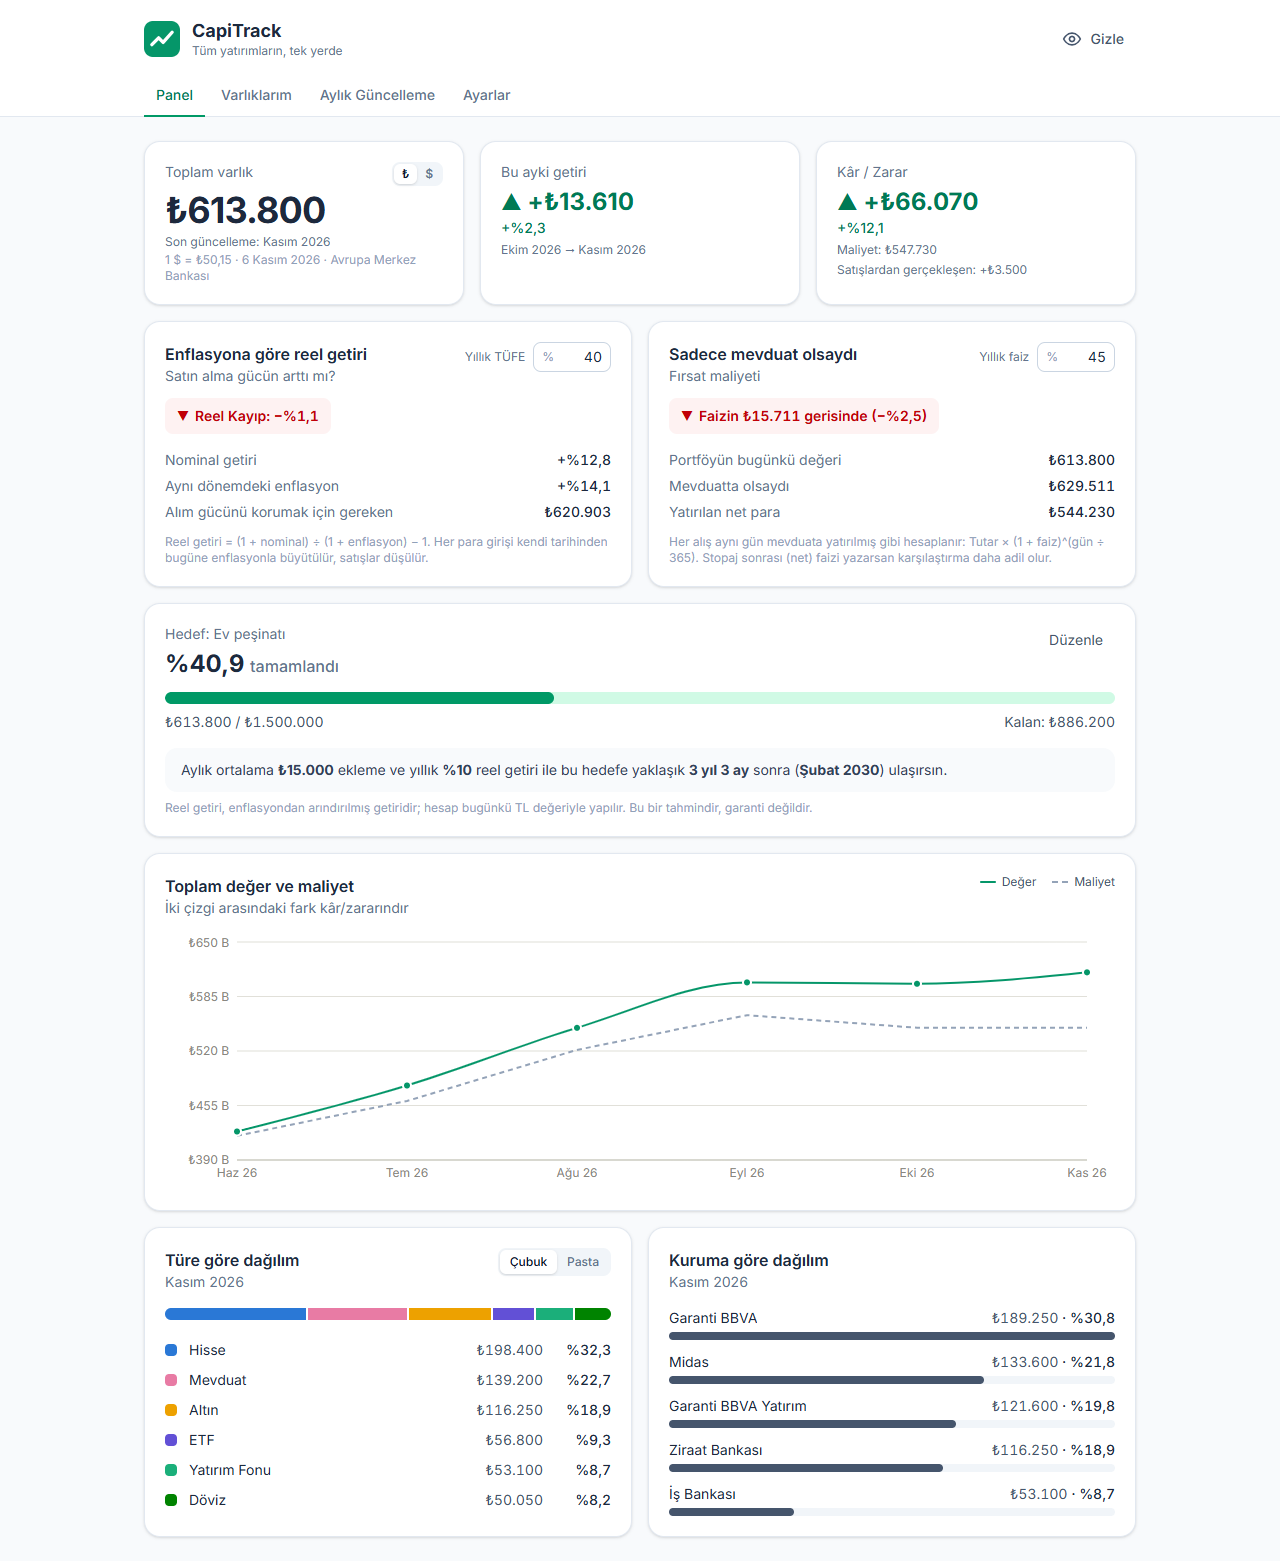
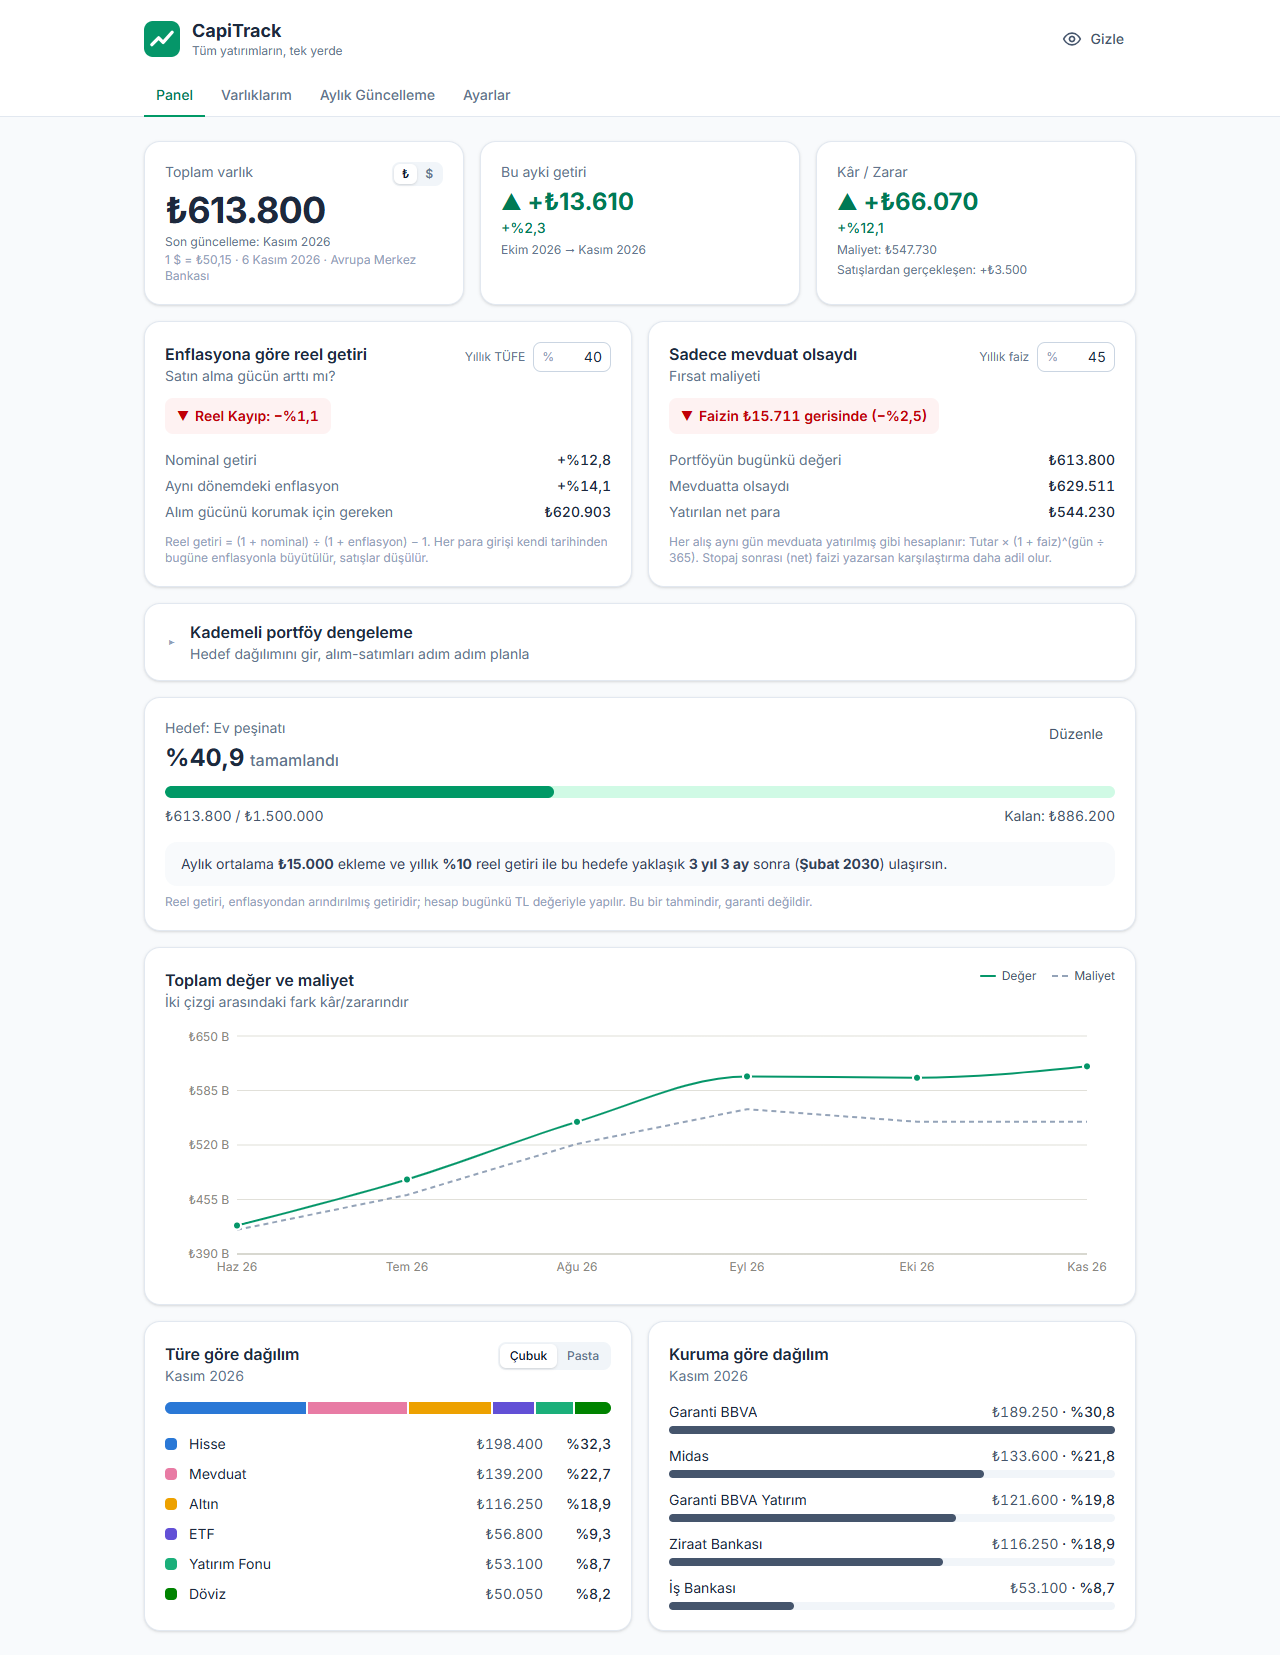
README ve ekran görüntülerini kademeli dengeleme ile güncelle

diff --git a/README.md b/README.md
@@ -18,6 +18,13 @@
 </details>
 
 <details>
+<summary>Kademeli portföy dengeleme planı</summary>
+
+![CapiTrack dengeleme planı](docs/dengeleme.png)
+
+</details>
+
+<details>
 <summary>Telefon görünümü</summary>
 
 <img src="docs/mobil.png" alt="CapiTrack telefon görünümü" width="320" />
@@ -32,6 +39,12 @@
 - **Çubuk / Pasta görünümü:** türe göre dağılım, bölümlü çubuk veya halka (pasta) grafik olarak gösterilebilir. Pastada bir dilimin ya da listedeki bir türün üzerine gelince halkanın ortasında o türün tutarı ve payı görünür.
 - **TL / Dolar:** toplam varlığa tıklayınca TL ile dolar arasında geçiş yapılır. Kur, ücretsiz bir servisten (Avrupa Merkez Bankası referans kuru) alınır ve 6 saat önbellekte tutulur; internet yoksa en son alınan kur kullanılır.
 - **Gizlilik modu:** üst menüdeki göz ikonu, kafe veya kütüphane gibi ortak alanlarda tüm tutarları tek tıkla `₺***,**` olarak gizler. Değer giriş kutuları bulanıklaşır, kutuya tıklayınca netleşir. Tercih hatırlanır.
+- **Kademeli portföy dengeleme:** Panel'de açılır bir karttır. Kullanıcı türler (Altın, Hisse…) ya da tek tek varlıklar (THYAO, PPF…) için hedef yüzdeler girer.
+  - Form bugünkü paylarla dolu gelir; listeye henüz sahip olunmayan bir varlık da eklenebilir.
+  - Toplam %100 değilse kırmızı uyarı çıkar ve *Hesapla* pasif kalır.
+  - Adım sayısı (2, 3, 4, 6, 12) ve sıklık (haftalık / aylık) seçilir.
+  - Sonuçta *Satılacaklar* ve *Alınacaklar* özetlenir, tarihli bir yol haritası çıkar: "Adım 1 (1. Hafta): ₺12.400 Altın al (~2,7 gr)". Birim fiyatı bilinen varlıklarda yaklaşık adet/gram karşılığı da yazar.
+  - Her adım uygulandıkça işaretlenir; plan ve ilerleme tarayıcıda saklanır.
 - **Hedef:** bir birikim hedefi (ör. ev peşinatı) belirlenir; portföyün hedefe oranı ilerleme çubuğuyla gösterilir. Aylık ekleme ve beklenen yıllık reel getiriyle, bileşik getiri hesabı yapılarak hedefe kaç ay sonra ulaşılacağı tahmin edilir.
 - **Varlıklarım:** varlık ekleme, düzenleme ve silme. Her varlığın türü (Altın, Hisse, ETF, Yatırım Fonu, Döviz, Mevduat, Kripto, Diğer), kurumu ve notu tutulur. Varlık eklenirken ilk alış da aynı formda girilebilir.
 - **Türe göre gruplama:** aynı türden birden fazla varlık varsa (ör. THYAO, BIMAS, ASELS → *Hisse*) bunlar tek bir başlık altında, listenin en üstünde gösterilir. Grup başlığında toplam değer ve grubun kâr/zarar yüzdesi yazar; her varlığın kendi kâr/zararı da satırında görünür. Gruplar açılıp kapatılabilir ve bu tercih hatırlanır. Türünde tek olan varlıklar gruplanmaz; altta, adlarının yanında renkli tür etiketiyle listelenir. Aynı türden ikinci bir varlık eklenince (ör. gram altının yanına altın sertifikası) o tür kendiliğinden gruba dönüşür. Gruplama hem *Varlıklarım* hem *Aylık Güncelleme* ekranında vardır.
@@ -97,6 +110,7 @@ src/
 ├── components/
 │   ├── TotalTile.jsx       Toplam varlık kartı (TL / Dolar geçişi)
 │   ├── BenchmarkCards.jsx  Reel getiri ve "sadece mevduat olsaydı" kartları
+│   ├── RebalancePlanner.jsx Kademeli portföy dengeleme: hedef formu ve adım adım plan
 │   ├── GoalCard.jsx        Hedef kartı ve hedef formu
 │   ├── TypeDistribution.jsx Türe göre dağılım (çubuk / pasta)
 │   ├── AssetGroup.jsx      Açılıp kapanan tür grubu (toplam değer ve kâr/zarar)
@@ -114,6 +128,7 @@ src/
     ├── trade.js            Alış / satış formunun okunması ve kontrolü
     ├── goal.js             Bileşik getiri ve hedefe ulaşma süresi hesabı
     ├── benchmark.js        Para akışlarının enflasyon / mevduat faiziyle büyütülmesi, Fisher denklemi
+    ├── rebalance.js        Hedef yüzdelere göre alım-satım tutarları, adımlara bölme, adım tarihleri
     ├── fx.js               Dolar/TL kurunun alınması ve önbelleklenmesi
     ├── exportExcel.js      Excel dosyasının oluşturulması
     ├── prefs.js            Tercihlerin hatırlanması (gizlilik, para birimi, görünüm, enflasyon ve faiz oranı)
@@ -151,7 +166,7 @@ Tüm veri tarayıcıda `capitrack:data` anahtarı altında tek bir JSON nesnesi 
 
 Miktar, maliyet ve değer veride saklanmaz; her açılışta işlemlerden ve fiyatlardan yeniden hesaplanır. Böylece bir işlem silindiğinde ya da düzeltildiğinde tüm geçmiş kendiliğinden doğru kalır.
 
-Gizlilik modu, para birimi, grafik görünümü, kapalı gruplar, enflasyon ve mevduat faizi oranı gibi tercihler portföy verisinden ayrı anahtarlarda (`capitrack:privacy` vb.) tutulur ve yedeğe dahil edilmez.
+Gizlilik modu, para birimi, grafik görünümü, kapalı gruplar, enflasyon ve mevduat faizi oranı, dengeleme planı ve işaretlenen adımlar gibi tercihler portföy verisinden ayrı anahtarlarda (`capitrack:privacy` vb.) tutulur ve yedeğe dahil edilmez.
 
 > **Sürüm geçişi:** İlk sürüm (`version: 1`) her ay için sadece toplam değer tutuyordu; bu bilgiden adet ve maliyet çıkarılamadığı için eski veri yeni modele çevrilmez. Uygulama eski veriyi `capitrack:data:v1-yedek` anahtarına yedekleyip boş başlar.
 
@@ -192,6 +207,20 @@ Büyütülmüş tutar = Σ Tutar · (1 + oran)^(gün / 365)
 
 Girilen faiz yıllık bileşik oran olarak kabul edilir. Bankaların ilan ettiği oran genelde basit faizdir ve stopaj kesilir; daha adil bir karşılaştırma için net oran yazılmalıdır.
 
+### Kademeli dengeleme hesabı
+
+```
+Hedef = Toplam portföy × Hedef yüzde / 100
+Delta = Hedef − Bugünkü değer          (Delta < 0 → satılacak, Delta > 0 → alınacak)
+Adım  = |Delta| / N                    (her adımda aynı tutar)
+```
+
+- Hedef yüzdeler toplamı %100 olduğu için satılanların toplamı alınanlarınkine eşittir; plan dışarıdan para gerektirmez. Her adımda önce satışlar, sonra alışlar yazılır.
+- Form bugünkü paylarla doldurulurken paylar %0,1'e yuvarlanır. Toplamın tam %100 olması için yuvarlama artığı, küsuratı en büyük olanlara dağıtılır (en büyük kalan yöntemi).
+- Portföyün binde birinden küçük farklar işlem sayılmaz. Bu, dokunulmayan satırlardaki yuvarlama gürültüsünü (ör. "₺40 ETF sat") eler. Elenen farklar alış ve satış toplamını birkaç yüz lira saptırabileceği için büyük taraf küçük tarafa eşitlenir; plan her zaman nakit-nötr kalır.
+- Adet/gram karşılığı = adım tutarı ÷ son birim fiyat. Türe göre kırılımda yalnızca türde tek varlık varsa gösterilir (birden fazla hissenin ortak bir fiyatı yoktur).
+- Plan, oluşturulduğu günün değerleriyle sabittir. Fiyatlar değiştikçe hedefe tam oturmayabilir; plan istenirse yeniden hesaplanır.
+
 Veri sadece kullanıldığı tarayıcıda durur. Başka bir cihaza taşımak veya kaybetmemek için **Ayarlar → Yedeği indir** kullanılır.
 
 ## Yapay zekanın kullanımı
@@ -204,7 +233,7 @@ Proje, VS Code içinde **Claude Code** eklentisiyle (model: Claude Opus 5.5) gel
 | **Planlama** | Claude'a proje yönergesi ve fikir verilerek bir yol haritası istendi. Teknoloji seçimi (React + Vite, Tailwind, Recharts) ve aşamalar birlikte planlandı. |
 | **Kurulum** | Claude, Vite projesini oluşturdu, Tailwind ve Recharts'ı kurdu, Git deposunu başlattı ve GitHub Pages için otomatik yayın iş akışını yazdı. |
 | **Geliştirme** | Bileşenler aşama aşama üretildi: varlık yönetimi → aylık güncelleme → panel ve grafikler → yedekleme ve örnek veri. "Son bilinen değer" kuralı ve dağılım için bölümlü çubuk kullanımı gibi tasarım kararları gerekçeleriyle önerildi ve onaylandı. Grafik renkleri renk körlüğü testinden geçirildi. |
-| **Yeni özellikler** | Temel uygulama bittikten sonra proje sahibinin istediği özellikler eklendi: çubuk / pasta görünüm seçici, TL / Dolar geçişi, gizlilik modu, Excel'e aktarma ve bileşik getirili hedef hesabı. Kur servisleri önceden test edilip tarayıcıdan erişime izin verdikleri doğrulandı. Hedef formülü, hedefe ulaşılan ay ile bir önceki ayın birikimi karşılaştırılarak kontrol edildi. Ardından aynı türdeki varlıkların gruplanması ve ağırlıklı ortalama maliyet sistemine geçildi. Bu değişiklikte veri modeli "aylık toplam değer"den "işlemler + aylık birim fiyat"a çevrildi. Eski veriyi dönüştürmek ile sıfırdan başlamak arasındaki seçim ve aylık girişin birim fiyatla mı toplam değerle mi yapılacağı, artıları ve eksileriyle proje sahibine soruldu; kararları proje sahibi verdi. Proje sahibinin hazırladığı ayrıntılı istekle "Benchmark & Fırsat Maliyeti" kartları eklendi. Claude, istekteki Fisher formülünde portföyün toplam getirisi ile yıllık enflasyonun farklı dönemlere ait olduğunu fark etti; enflasyonu da para akışlarının tarihlerine göre dönemleştirerek düzeltti. Satışların mevduattan para çekmek gibi düşülmesini de ekledi. Canlı fiyat çekme fikri için ücretsiz fiyat kaynakları tek tek denendi: döviz, kripto ve altın kaynakları tarayıcıdan erişime izin veriyor; BIST hisseleri ve TEFAS fonları ise CORS engeline takılıyor. Bu analiz proje sahibine sunuldu. |
+| **Yeni özellikler** | Temel uygulama bittikten sonra proje sahibinin istediği özellikler eklendi: çubuk / pasta görünüm seçici, TL / Dolar geçişi, gizlilik modu, Excel'e aktarma ve bileşik getirili hedef hesabı. Kur servisleri önceden test edilip tarayıcıdan erişime izin verdikleri doğrulandı. Hedef formülü, hedefe ulaşılan ay ile bir önceki ayın birikimi karşılaştırılarak kontrol edildi. Ardından aynı türdeki varlıkların gruplanması ve ağırlıklı ortalama maliyet sistemine geçildi. Bu değişiklikte veri modeli "aylık toplam değer"den "işlemler + aylık birim fiyat"a çevrildi. Eski veriyi dönüştürmek ile sıfırdan başlamak arasındaki seçim ve aylık girişin birim fiyatla mı toplam değerle mi yapılacağı, artıları ve eksileriyle proje sahibine soruldu; kararları proje sahibi verdi. Proje sahibinin hazırladığı ayrıntılı istekle "Benchmark & Fırsat Maliyeti" kartları eklendi. Claude, istekteki Fisher formülünde portföyün toplam getirisi ile yıllık enflasyonun farklı dönemlere ait olduğunu fark etti; enflasyonu da para akışlarının tarihlerine göre dönemleştirerek düzeltti. Satışların mevduattan para çekmek gibi düşülmesini de ekledi. Canlı fiyat çekme fikri için ücretsiz fiyat kaynakları tek tek denendi: döviz, kripto ve altın kaynakları tarayıcıdan erişime izin veriyor; BIST hisseleri ve TEFAS fonları ise CORS engeline takılıyor. Bu analiz proje sahibine sunuldu. Yine proje sahibinin ayrıntılı isteğiyle "Kademeli Portföy Dengeleme" modülü eklendi. Claude, isteğe birkaç ekleme önerip uyguladı: formun bugünkü paylarla dolu gelmesi (unutulan bir kalemin yanlışlıkla %0 olup tamamen satılmaması için), türe göre / varlığa göre kırılım seçimi ve mevduatta "al/sat" yerine "yatır/çek" yazılması. |
 | **Hata ayıklama** | Klasör adındaki `;` yüzünden `vite` komutunun bulunamaması teşhis edilip çözüldü. Kullanıcının bildirdiği "kurum öneri listesinin yanlış yerde açılması" hatası, tarayıcının `<datalist>` özelliğinin Windows ekran ölçeklendirmesindeki sorununa bağlanıp kendi bileşenle değiştirildi. Zaman aşımına uğrayan GitHub Pages yayını, action sürümleri güncellenerek düzeltildi. Ekran görüntüleri incelenerek animasyon, yüzde biçimi ve eksen etiketi sorunları bulundu ve giderildi. Kullanıcının bildirdiği "pasta grafikte yazıların üst üste binmesi" sorunu, ipucu kutusu yerine halkanın ortasında bilgi gösterilerek; "grafiğe tıklayınca çıkan çerçeve" sorunu ise fare tıklamasında odak çerçevesi gizlenip klavye odağında korunarak çözüldü. Telefonda Aylık Güncelleme satırlarında uzun varlık adının giriş kutusuyla üst üste binmesi, satır esnek ızgaraya çevrilerek giderildi. |
-| **Doğrulama** | Üretilen kod her aşamada derlendi ve linter'dan geçirildi. Sayı okuma, aylık toplam, yedek doğrulama ve hedef hesabı fonksiyonları örnek verilerle test edildi. Ortalama maliyet ve gerçekleşen kâr hesapları elle hesaplanan örneklerle (ör. THYAO ₺283,20 / +₺1.840) karşılaştırıldı. Fazla satışın engellenmesi ve eski sürüm verisinin yedeklenmesi de otomatik tarayıcı testine eklendi. Reel getiri ve mevduat hesapları elle sağlanabilen örneklerle test edildi (ör. 1 yıl önce ₺100, bugün ₺150, %40 enflasyon → reel +%7,14; %45 faiz → mevduat ₺145). İki oran eşit girildiğinde iki kartın aynı tutarı verdiği de doğrulandı. Arayüz, otomatik kontrol edilen bir tarayıcıda (Edge + Puppeteer) butonlara tıklanarak denendi; indirilen Excel dosyası hücre hücre okunup kontrol edildi. Proje sahibi her aşamayı tarayıcıda elle test etti. |
+| **Doğrulama** | Üretilen kod her aşamada derlendi ve linter'dan geçirildi. Sayı okuma, aylık toplam, yedek doğrulama ve hedef hesabı fonksiyonları örnek verilerle test edildi. Ortalama maliyet ve gerçekleşen kâr hesapları elle hesaplanan örneklerle (ör. THYAO ₺283,20 / +₺1.840) karşılaştırıldı. Fazla satışın engellenmesi ve eski sürüm verisinin yedeklenmesi de otomatik tarayıcı testine eklendi. Reel getiri ve mevduat hesapları elle sağlanabilen örneklerle test edildi (ör. 1 yıl önce ₺100, bugün ₺150, %40 enflasyon → reel +%7,14; %45 faiz → mevduat ₺145). İki oran eşit girildiğinde iki kartın aynı tutarı verdiği de doğrulandı. Dengeleme motoru, istekteki örnekle (₺100.000 portföy, %40 PPF / %25 Altın / %25 SPY / %10 BIST) ve tarih hesaplarıyla (yıl geçişi, ay sonu) test edildi. Tarayıcı testinde çıktı elle toplanırken, yuvarlama artıkları yüzünden satış ve alış toplamlarının ₺252 farklı çıktığı fark edildi; nakit dengesi kuralı eklenerek düzeltildi. Arayüz, otomatik kontrol edilen bir tarayıcıda (Edge + Puppeteer) butonlara tıklanarak denendi; indirilen Excel dosyası hücre hücre okunup kontrol edildi. Proje sahibi her aşamayı tarayıcıda elle test etti. |
 | **Dokümantasyon** | Bu README ve ekran görüntüleri Claude tarafından hazırlandı. |
